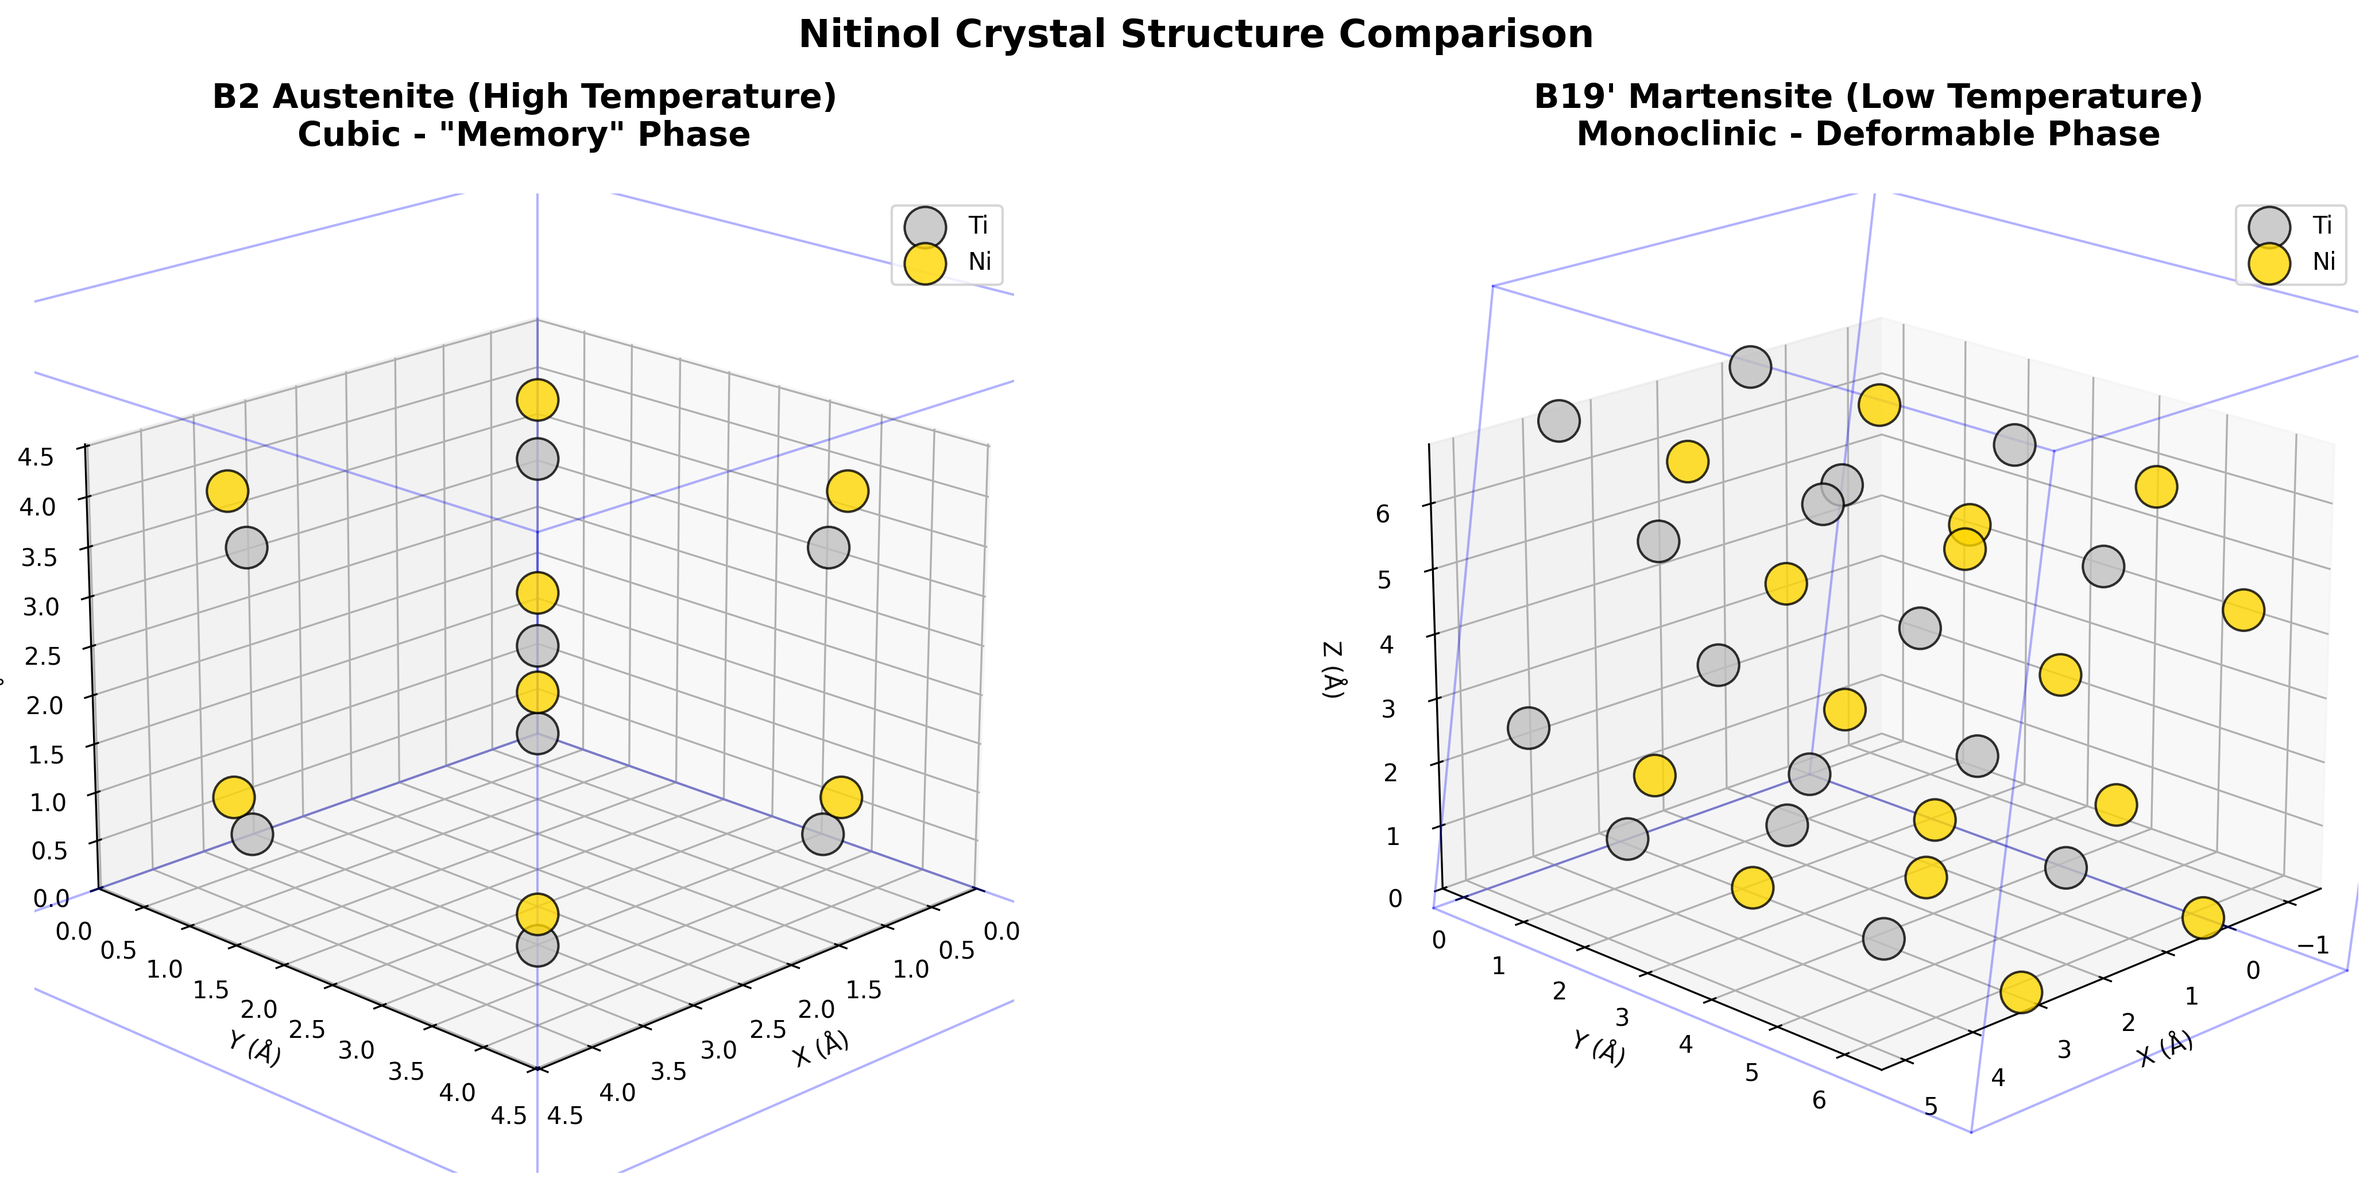
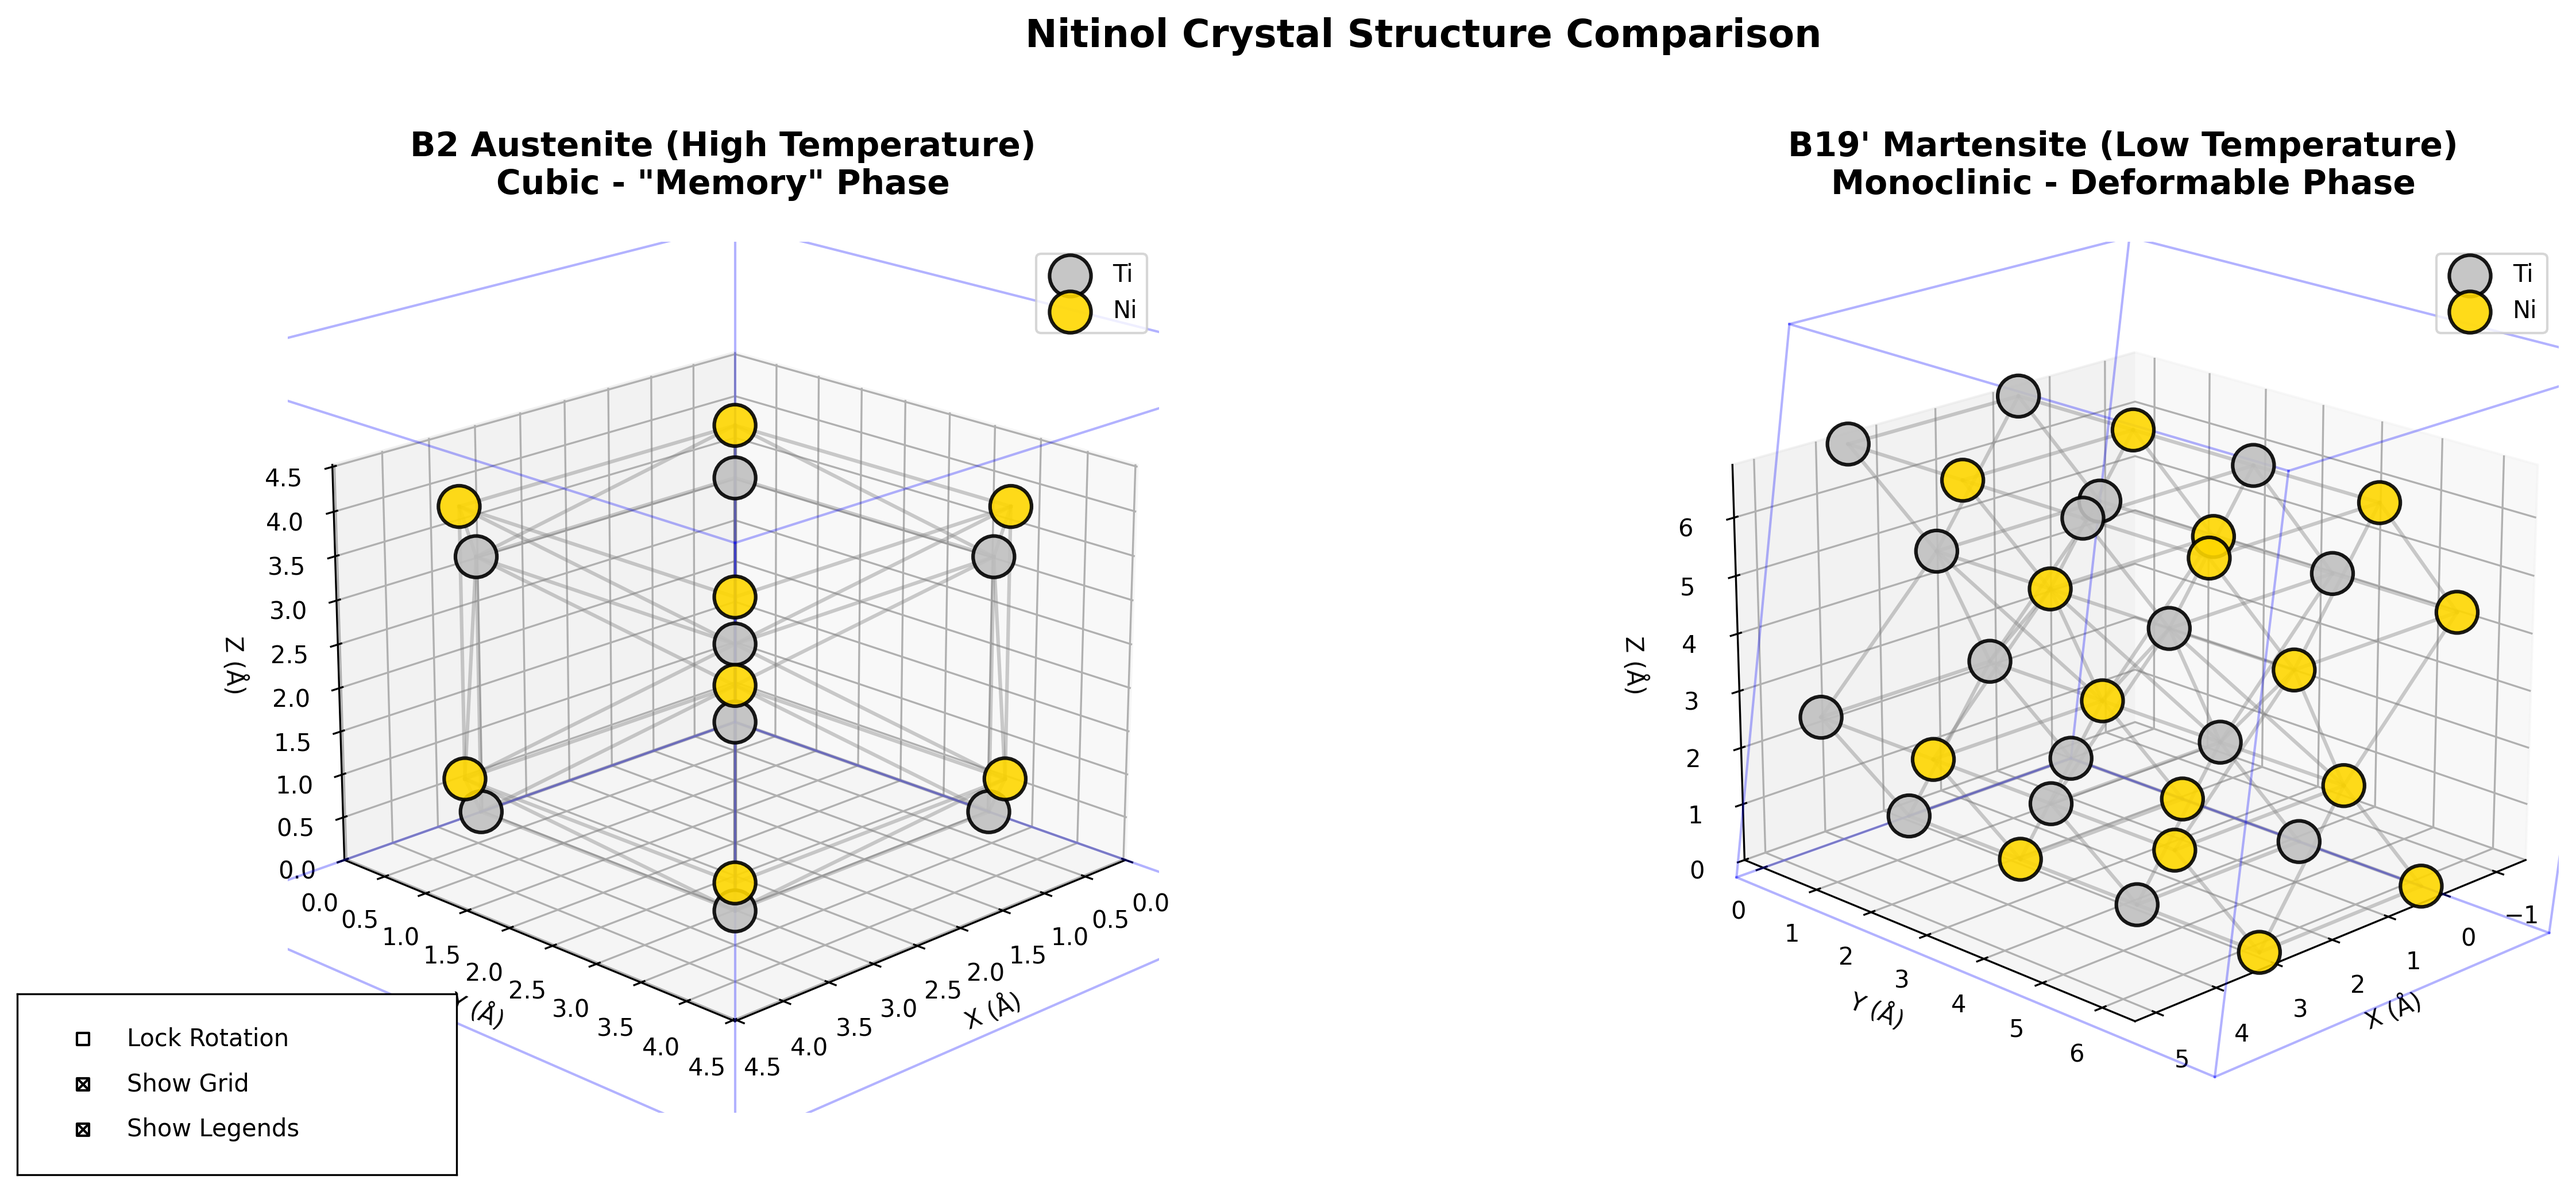
improve UI with rotation lock and such

diff --git a/compare_nitinol_phases.py b/compare_nitinol_phases.py
@@ -7,6 +7,7 @@ Shows B2 austenite and B19' martensite structures side by side
 from ase import Atoms
 import matplotlib.pyplot as plt
 from mpl_toolkits.mplot3d import Axes3D
+from matplotlib.widgets import CheckButtons
 import numpy as np
 
 def create_b2_austenite():
@@ -76,25 +77,40 @@ def create_b19_martensite():
 
 def plot_structure(atoms, ax, title):
     """
-    Plot atomic structure on given matplotlib axis
+    Plot atomic structure on given matplotlib axis with bonds
     """
     positions = atoms.get_positions()
     symbols = atoms.get_chemical_symbols()
+
+    # Draw bonds first (so they appear behind atoms)
+    # Define maximum bond distance (slightly larger than nearest neighbor)
+    max_bond_distance = 3.2  # Angstroms - covers typical Ti-Ni bonds
+
+    for i in range(len(positions)):
+        for j in range(i + 1, len(positions)):
+            distance = np.linalg.norm(positions[i] - positions[j])
+
+            # Only draw bonds between nearest neighbors
+            if distance < max_bond_distance:
+                # Draw bond as a line
+                bond_points = np.array([positions[i], positions[j]])
+                ax.plot3D(bond_points[:, 0], bond_points[:, 1], bond_points[:, 2],
+                         'gray', linewidth=1.5, alpha=0.4, zorder=1)
 
     # Separate Ti and Ni atoms
     ti_pos = positions[np.array(symbols) == 'Ti']
     ni_pos = positions[np.array(symbols) == 'Ni']
 
-    # Plot atoms
+    # Plot atoms (with higher zorder so they appear on top of bonds)
     if len(ti_pos) > 0:
         ax.scatter(ti_pos[:, 0], ti_pos[:, 1], ti_pos[:, 2],
-                  c='silver', s=300, alpha=0.8, edgecolors='black',
-                  linewidths=1, label='Ti')
+                  c='silver', s=300, alpha=0.9, edgecolors='black',
+                  linewidths=1.5, label='Ti', zorder=3)
 
     if len(ni_pos) > 0:
         ax.scatter(ni_pos[:, 0], ni_pos[:, 1], ni_pos[:, 2],
-                  c='gold', s=300, alpha=0.8, edgecolors='black',
-                  linewidths=1, label='Ni')
+                  c='gold', s=300, alpha=0.9, edgecolors='black',
+                  linewidths=1.5, label='Ni', zorder=3)
 
     # Draw unit cell
     cell = atoms.get_cell()
@@ -143,7 +159,7 @@ def plot_structure(atoms, ax, title):
     ax.view_init(elev=20, azim=45)
 
 def visualize_comparison():
-    """Create side-by-side comparison of B2 and B19' phases"""
+    """Create side-by-side comparison of B2 and B19' phases with interactive controls"""
 
     print("Creating B2 austenite structure...")
     b2 = create_b2_austenite()
@@ -157,8 +173,8 @@ def visualize_comparison():
     print(f"  Cell parameters: a={cell_params[0]:.3f} Å, b={cell_params[1]:.3f} Å, c={cell_params[2]:.3f} Å")
     print(f"  Monoclinic angle β={cell_params[4]:.1f}°")
 
-    # Create figure with two subplots
-    fig = plt.figure(figsize=(16, 7))
+    # Create figure with two subplots and space for controls
+    fig = plt.figure(figsize=(17, 7))
 
     # B2 Austenite
     ax1 = fig.add_subplot(121, projection='3d')
@@ -171,7 +187,69 @@ def visualize_comparison():
     plt.suptitle('Nitinol Crystal Structure Comparison',
                 fontsize=16, fontweight='bold', y=0.98)
 
-    plt.tight_layout()
+    # Add interactive controls
+    # Create checkbox area at the bottom
+    ax_check = plt.axes([0.02, 0.02, 0.15, 0.15])
+    check = CheckButtons(ax_check, ['Lock Rotation', 'Show Grid', 'Show Legends'],
+                        [False, True, True])
+
+    # Store initial view angles
+    initial_elev = ax1.elev
+    initial_azim = ax1.azim
+
+    # Track checkbox states
+    state = {
+        'lock_rotation': False,
+        'show_grid': True,
+        'show_legends': True
+    }
+
+    def on_checkbox_clicked(label):
+        """Handle checkbox clicks"""
+        if label == 'Lock Rotation':
+            state['lock_rotation'] = not state['lock_rotation']
+            if state['lock_rotation']:
+                # Sync the views
+                ax2.view_init(elev=ax1.elev, azim=ax1.azim)
+                fig.canvas.draw_idle()
+
+        elif label == 'Show Grid':
+            state['show_grid'] = not state['show_grid']
+            # Toggle grid, axes, and panes
+            for ax in [ax1, ax2]:
+                ax.grid(state['show_grid'])
+                ax.set_axis_on() if state['show_grid'] else ax.set_axis_off()
+                # Toggle panes
+                ax.xaxis.pane.set_visible(state['show_grid'])
+                ax.yaxis.pane.set_visible(state['show_grid'])
+                ax.zaxis.pane.set_visible(state['show_grid'])
+            fig.canvas.draw_idle()
+
+        elif label == 'Show Legends':
+            state['show_legends'] = not state['show_legends']
+            for ax in [ax1, ax2]:
+                legend = ax.get_legend()
+                if legend:
+                    legend.set_visible(state['show_legends'])
+            fig.canvas.draw_idle()
+
+    check.on_clicked(on_checkbox_clicked)
+
+    # Store the original motion_notify_event handler
+    def on_move(event):
+        """Synchronize rotation when locked"""
+        if state['lock_rotation'] and event.inaxes in [ax1, ax2]:
+            # Get the view angles from the active axis
+            if event.inaxes == ax1:
+                ax2.view_init(elev=ax1.elev, azim=ax1.azim)
+            elif event.inaxes == ax2:
+                ax1.view_init(elev=ax2.elev, azim=ax2.azim)
+            fig.canvas.draw_idle()
+
+    # Connect the motion event
+    fig.canvas.mpl_connect('motion_notify_event', on_move)
+
+    plt.tight_layout(rect=[0, 0.05, 1, 0.96])
 
     # Save figure
     output_file = 'nitinol_phase_comparison.png'
@@ -180,6 +258,10 @@ def visualize_comparison():
 
     # Show interactive plot
     print("Displaying interactive comparison...")
+    print("\nControls:")
+    print("  - Lock Rotation: Synchronize rotation of both structures")
+    print("  - Show Grid: Toggle 3D grid and axes")
+    print("  - Show Legends: Toggle atom type legends")
     plt.show()
 
 if __name__ == "__main__":
